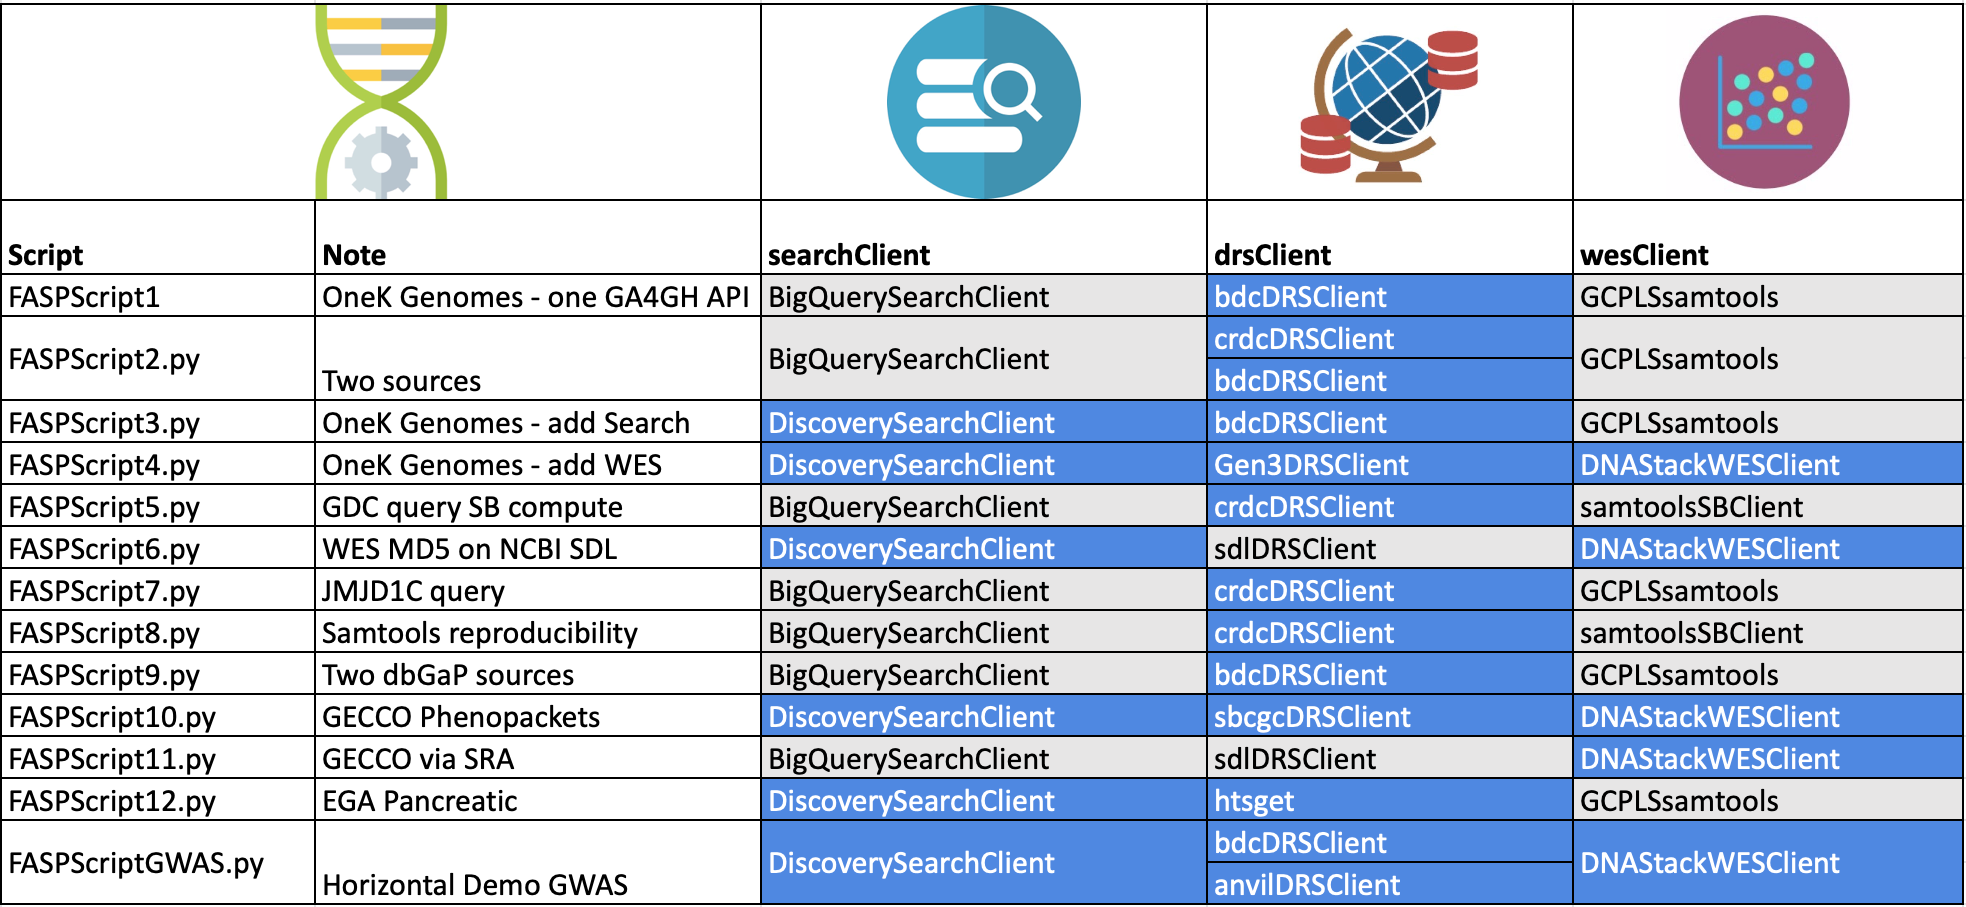
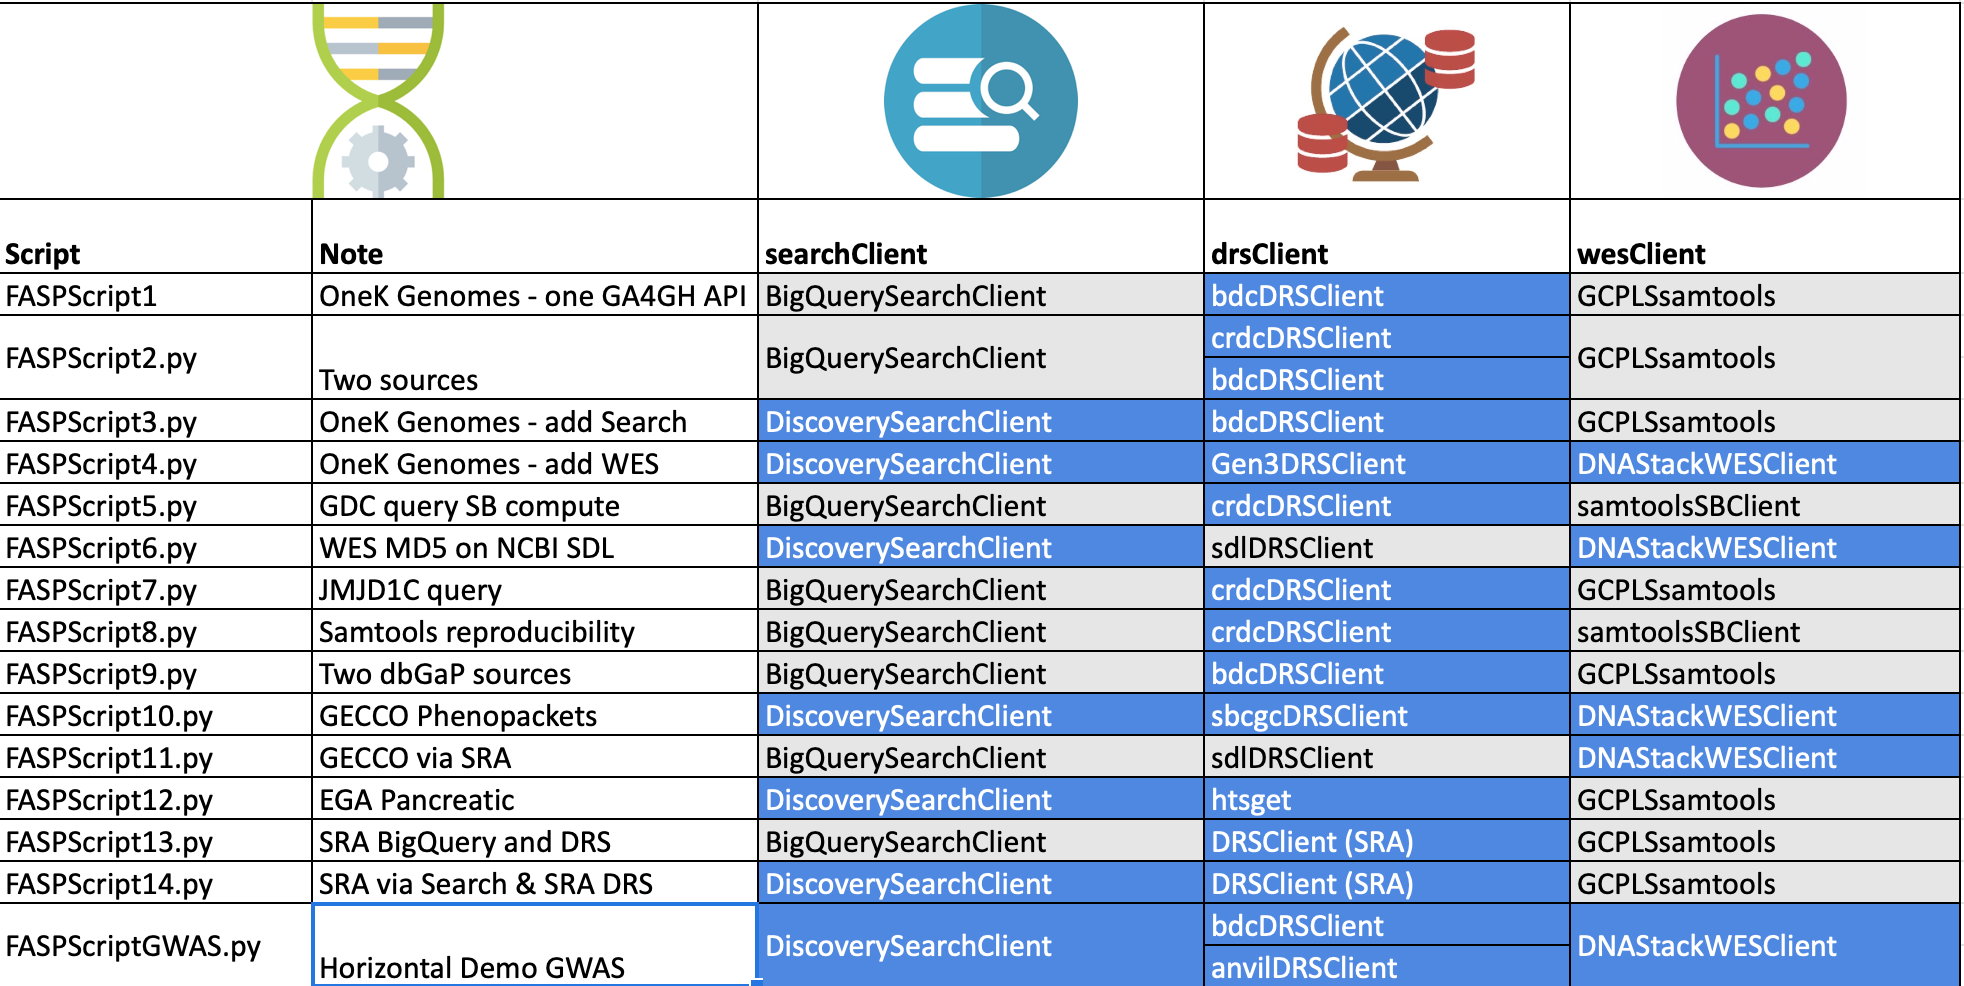
readme image

diff --git a/fasp/scripts/FASPScript13.py b/fasp/scripts/FASPScript13.py
@@ -27,15 +27,14 @@ def main(argv):
 		and att.k = 'population_sam' and att.v = 'JPT' 
 		LIMIT 3"""
 
-	# BioDataCatalyst
 	#drsClient = DRSMetaResolver()
-	drsClient = DRSClient('https://locate.ncbi.nlm.nih.gov',access_id='2' ,debug=True, public=True)
+	drsClient = DRSClient('https://locate.ncbi.nlm.nih.gov',access_id='2', public=True)
 	location = 'projects/{}/locations/{}'.format(settings['GCPProject'], settings['GCPPipelineRegion'])
 	mysam = GCPLSsamtools(location, settings['GCPOutputBucket'])
 
 	faspRunner.configure(searchClient, drsClient, mysam)
 		
 	faspRunner.runQuery(query, 'One k query SRA DRS')
-	    
+	
 if __name__ == "__main__":
-    main(sys.argv[1:])
+	main(sys.argv[1:])
